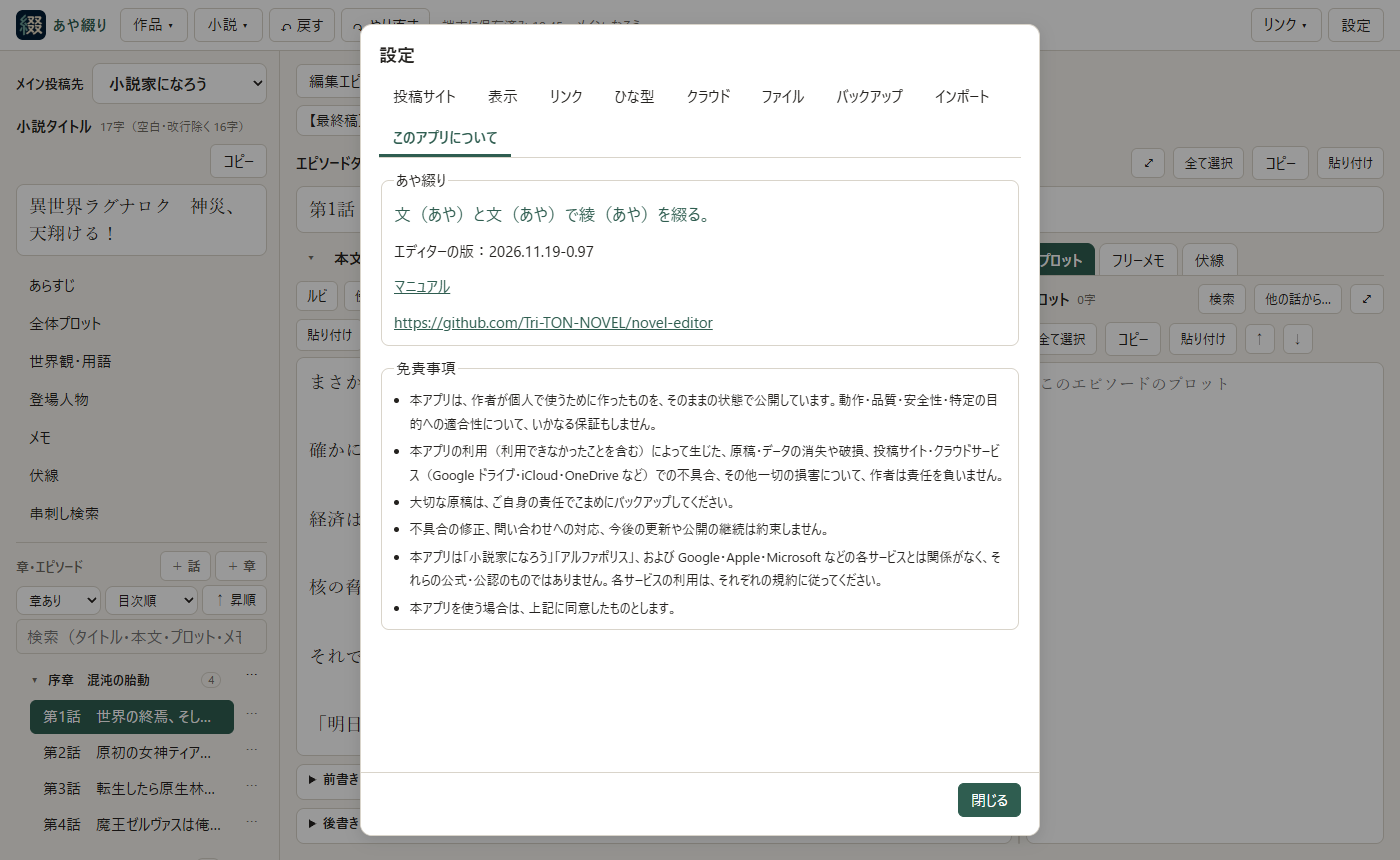
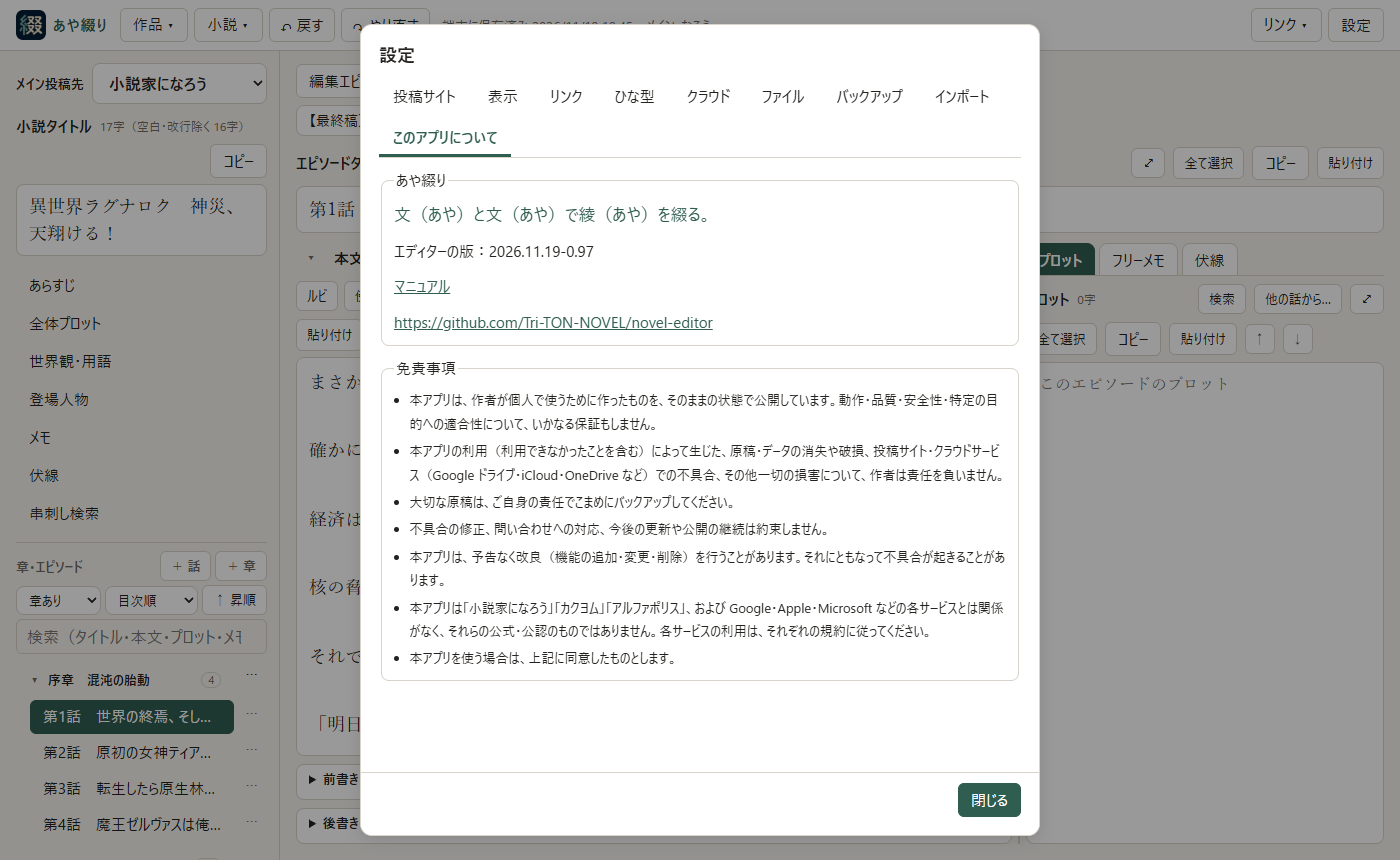
Add files via upload

Changed region(s): [[0.2764, 0.6349, 0.7371, 0.786]]

diff --git a/docs/manual.html b/docs/manual.html
@@ -109,7 +109,7 @@
     <div class="brand"><img src="images/manual/header-icon.png" alt=""><strong>あや綴り</strong></div>
     <h1>あや綴り マニュアル</h1>
     <p>作品・章・エピソードの管理から、投稿サイト別の原稿と稿、伏線、TXT インポート、バックアップ、設定までをまとめています。画面の画像には、作者の小説「異世界ラグナロク　神災、天翔ける！」を使っています。</p>
-    <div class="meta"><span>バージョン 0.97</span><span>2026年11月19日</span><a href="https://tri-ton-novel.github.io/novel-editor/">アプリを開く</a><a href="https://github.com/Tri-TON-NOVEL/novel-editor">GitHub</a></div>
+    <div class="meta"><span>バージョン 0.97</span><span>2026年11月20日</span><a href="https://tri-ton-novel.github.io/novel-editor/">アプリを開く</a><a href="https://github.com/Tri-TON-NOVEL/novel-editor">GitHub</a></div>
   </header>
 
   <div class="layout">
@@ -143,7 +143,7 @@
         <p>あや綴りは、ブラウザーで動く小説執筆アプリです。「小説家になろう」「カクヨム」「アルファポリス」用の原稿を、一つのエピソードの中に別々に持てます。インストールや登録はいりません。</p>
         <h3>最初の5分</h3>
         <ol>
-          <li><a href="https://tri-ton-novel.github.io/novel-editor/">あや綴り</a>を Chrome で開きます（おすすめは Chrome。Windows・Mac・iPhone・iPad・Android で使えます）。</li>
+          <li><a href="https://tri-ton-novel.github.io/novel-editor/">あや綴り</a>を Chrome で開きます（おすすめは Chrome です。<a href="#env">動作環境</a>）。</li>
           <li>「作品」→「新しい作品…」でメインの投稿サイトを選んで作品を作り、左上の「小説タイトル」に題名を入れます。</li>
           <li>左の「＋ 話」でエピソードを足し、エピソードタイトルと本文を書きます。書いた内容は自動で端末に保存されます。</li>
           <li>「設定」→「バックアップ」の「サーバへの自動バックアップ」で保存先を選びます（<a href="#autobackup">自動バックアップ</a>）。</li>
@@ -155,6 +155,16 @@
           <li>外へ送るのは、自分で Google ドライブか OneDrive を使うと決めたときだけです。</li>
           <li>同じ端末でも、Chrome と Safari、ブラウザーとホーム画面のアプリでは、作品も設定も別々です。ふだん使う開き方を一つに決めておくと迷いません。</li>
         </ul>
+        <h3 id="env">動作環境</h3>
+        <table>
+          <thead><tr><th>ブラウザー・端末</th><th>状態</th></tr></thead>
+          <tbody>
+            <tr><td>Chrome（Windows・Mac・iPhone・iPad）</td><td>推奨</td></tr>
+            <tr><td>Safari・Edge</td><td>動作未検証</td></tr>
+            <tr><td>Android</td><td>実機では未テスト</td></tr>
+          </tbody>
+        </table>
+        <p class="notice">Safari・Edge・Android では、おかしな動作をすることがあります。大切な原稿は、こまめにバックアップしてください。</p>
         <p class="back-top"><a href="#top">ページの先頭へ</a></p>
       </section>
 
@@ -445,8 +455,10 @@
         <ul>
           <li>「バックアップファイルを管理…」で、保存先のバックアップの一覧を開きます。日時の順、内容（環境・作品全体・作品情報・エピソード）、端末で絞り込めます。</li>
           <li>ファイルを選ぶと中身を確かめられ、選んだものだけを読み込めます。削除もできます。</li>
+          <li>「選択した内容を読み込む」は、同じ作品があれば上書きし、なければ追加します。何も書いていない無題の作品（初めて開いたときにできるもの）は消します。</li>
+          <li>「新しい作品として読み込む」は、今ある作品を変えずに、別の作品として足します。</li>
           <li>読み込む前に、変わる作品ごとに復元ポイント「バックアップ読み込み前（自動）」を作ります。</li>
-          <li>「⚙ 環境」を読み込むときは、この端末の設定に「まとめる」か、バックアップの設定で「置き換える」かを選びます。</li>
+          <li>「⚙ 環境」を読み込むと、この端末の設定をバックアップの内容に置き換えます（クライアント ID とログインは変わりません）。</li>
         </ul>
         <h3 id="history">変更履歴と復元ポイント</h3>
         <ul>
@@ -525,7 +537,7 @@
         <h2>設定</h2>
         <p>上のバーの「設定」で開きます。変えるとすぐに反映・保存されます（文字の欄は、欄を離れたとき）。設定は端末（ブラウザー）ごとです。</p>
         <h3 id="set-sites">投稿サイト</h3>
-        <figure><button type="button" data-zoom="images/manual/16_settings_sites.png?v=20261119e" aria-label="投稿サイトの設定を拡大"><img src="images/manual/16_settings_sites.png?v=20261119e" alt="小説家になろうとアルファポリスのアカウントを入れる画面" loading="lazy"></button><figcaption>図23　投稿サイト</figcaption></figure>
+        <figure><button type="button" data-zoom="images/manual/16_settings_sites.png?v=20261120a" aria-label="投稿サイトの設定を拡大"><img src="images/manual/16_settings_sites.png?v=20261120a" alt="小説家になろう・カクヨム・アルファポリスのアカウントを入れる画面" loading="lazy"></button><figcaption>図23　投稿サイト</figcaption></figure>
         <p>なろう・アルファポリスのユーザ ID・ユーザ名・作者名を入れます。TXT インポートで、TXT の作者情報と照らし合わせるのに使います。</p>
         <h3 id="set-display">表示</h3>
         <figure><button type="button" data-zoom="images/manual/17_settings_display.png?v=20261119e" aria-label="表示の設定を拡大"><img src="images/manual/17_settings_display.png?v=20261119e" alt="使う表示（簡易・詳細）と、表示する項目を選ぶ画面" loading="lazy"></button><figcaption>図24　表示</figcaption></figure>
@@ -586,7 +598,7 @@
         <h3 id="set-import">インポート</h3>
         <p>「TXT をインポート…」で、TXT インポートを開きます（<a href="#import">TXT インポート</a>）。</p>
         <h3 id="set-about">このアプリについて</h3>
-        <figure><button type="button" data-zoom="images/manual/22_settings_about.png?v=20261119e" aria-label="このアプリについてを拡大"><img src="images/manual/22_settings_about.png?v=20261119e" alt="バージョン、マニュアルと GitHub へのリンク、免責事項" loading="lazy"></button><figcaption>図29　このアプリについて</figcaption></figure>
+        <figure><button type="button" data-zoom="images/manual/22_settings_about.png?v=20261120a" aria-label="このアプリについてを拡大"><img src="images/manual/22_settings_about.png?v=20261120a" alt="バージョン、マニュアルと GitHub へのリンク、免責事項" loading="lazy"></button><figcaption>図29　このアプリについて</figcaption></figure>
         <p>バージョン、このマニュアルと GitHub へのリンク、免責事項があります。</p>
         <p class="back-top"><a href="#top">ページの先頭へ</a></p>
       </section>
@@ -676,7 +688,7 @@
           <li>ファイルの保存は共有メニューの「"ファイル"に保存」で、iCloud Drive などを選べます。</li>
           <li>最大化した欄がキーボードに隠れるときは、「設定」→「表示」→「iPhone：最大化時の高さ」で高さを決めます。</li>
           <li>不要なボタンを「設定」→「表示」で隠すと、書く場所を広く使えます。</li>
-          <li>Android は実機で確かめていません。</li>
+          <li>Android は実機で確かめていません。おかしな動作をすることがあります（<a href="#env">動作環境</a>）。</li>
         </ul>
         <p class="back-top"><a href="#top">ページの先頭へ</a></p>
       </section>
@@ -759,7 +771,7 @@
           <li>TXT インポートや大きな書き直しの前に、復元ポイントを作ります。</li>
           <li>節目には、「作品」→「保存…」でクラウドとは別の場所にも残します。</li>
         </ul>
-        <p class="notice">本アプリは無保証です。利用によって生じた損害について、作者は責任を負いません（「設定」→「このアプリについて」の免責事項）。</p>
+        <p class="notice">本アプリは無保証です。予告なく改良することがあり、それにともなう不具合が起きることもあります。利用によって生じた損害について、作者は責任を負いません（「設定」→「このアプリについて」の免責事項）。</p>
         <p class="back-top"><a href="#top">ページの先頭へ</a></p>
       </section>
     </main>

diff --git a/index.html b/index.html
@@ -1452,6 +1452,12 @@
       <label>作者名（ペンネーム） <input type="text" name="acc.narou.author" autocomplete="off"></label>
     </fieldset>
     <fieldset class="account-grid">
+      <legend>カクヨムのアカウント</legend>
+      <label>ユーザID <input type="text" name="acc.kakuyomu.userId" autocomplete="off"></label>
+      <label>ユーザ名 <input type="text" name="acc.kakuyomu.userName" autocomplete="off"></label>
+      <label>作者名（ペンネーム） <input type="text" name="acc.kakuyomu.author" autocomplete="off"></label>
+    </fieldset>
+    <fieldset class="account-grid">
       <legend>アルファポリスのアカウント</legend>
       <label>ユーザID <input type="text" name="acc.alpha.userId" autocomplete="off"></label>
       <label>ユーザ名 <input type="text" name="acc.alpha.userName" autocomplete="off"></label>
@@ -1551,7 +1557,8 @@
         <li>本アプリの利用（利用できなかったことを含む）によって生じた、原稿・データの消失や破損、投稿サイト・クラウドサービス（Google ドライブ・iCloud・OneDrive など）での不具合、その他一切の損害について、作者は責任を負いません。</li>
         <li>大切な原稿は、ご自身の責任でこまめにバックアップしてください。</li>
         <li>不具合の修正、問い合わせへの対応、今後の更新や公開の継続は約束しません。</li>
-        <li>本アプリは「小説家になろう」「アルファポリス」、および Google・Apple・Microsoft などの各サービスとは関係がなく、それらの公式・公認のものではありません。各サービスの利用は、それぞれの規約に従ってください。</li>
+        <li>本アプリは、予告なく改良（機能の追加・変更・削除）を行うことがあります。それにともなって不具合が起きることがあります。</li>
+        <li>本アプリは「小説家になろう」「カクヨム」「アルファポリス」、および Google・Apple・Microsoft などの各サービスとは関係がなく、それらの公式・公認のものではありません。各サービスの利用は、それぞれの規約に従ってください。</li>
         <li>本アプリを使う場合は、上記に同意したものとします。</li>
       </ul>
     </fieldset>

diff --git a/js/app.js b/js/app.js
@@ -5295,9 +5295,9 @@ function renderLinkEditor() {
 
 // ---------- 設定 ----------
 
-// 投稿サイトのアカウント（全作品共通・端末ごと）：{ narou: { userId, userName, author }, alpha: { ... } }
+// 投稿サイトのアカウント（全作品共通・端末ごと）：{ narou: { userId, userName, author }, kakuyomu: { ... }, alpha: { ... } }
 function accounts() {
-  return { narou: {}, alpha: {}, ...(prefs.get('accounts', {}) || {}) };
+  return { narou: {}, kakuyomu: {}, alpha: {}, ...(prefs.get('accounts', {}) || {}) };
 }
 
 // ---------- この作品と投稿サイトの作品の対応（作品データ。作品ごと・入れなくてもよい） ----------
@@ -5822,7 +5822,7 @@ function commitLinks() {
 }
 
 function commitAccounts() {
-  const acc = { narou: {}, alpha: {} };
+  const acc = { ...accounts(), narou: {}, kakuyomu: {}, alpha: {} };
   $('settings-form').querySelectorAll('[name^="acc."]').forEach((input) => {
     const [, site, key] = input.name.split('.');
     acc[site][key] = input.value.trim();

diff --git a/sw.js b/sw.js
@@ -1,6 +1,6 @@
 // オフラインでも起動できるよう、アプリ本体をキャッシュする。
 // ファイルを更新したら VERSION を上げる。
-const VERSION = 'v191';
+const VERSION = 'v195';
 const CACHE = 'novel-editor-' + VERSION;
 const SHELL = [
   './',
